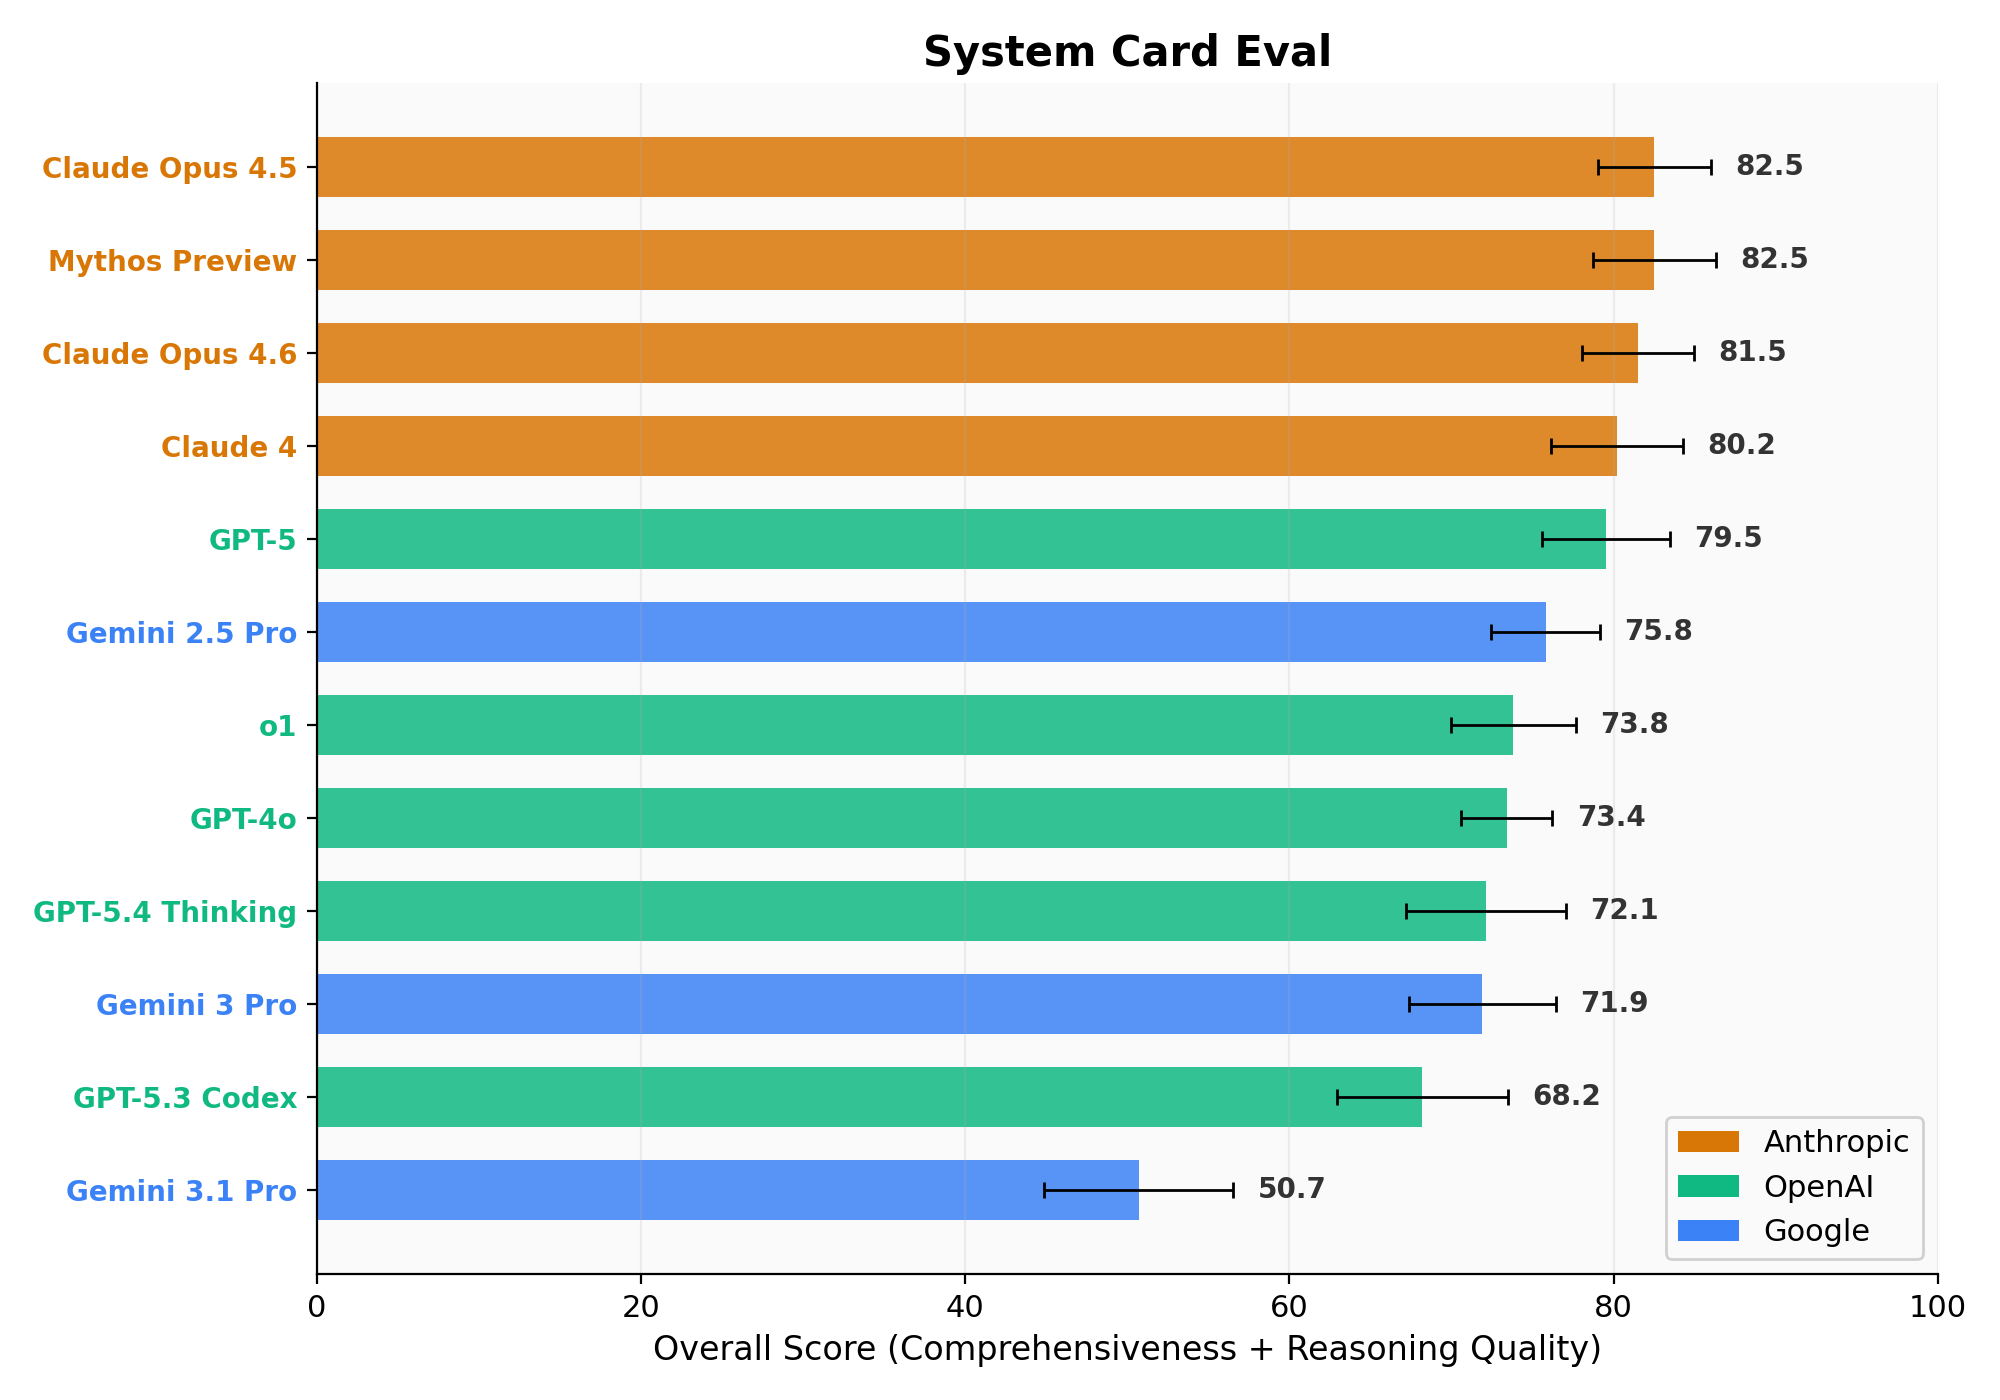
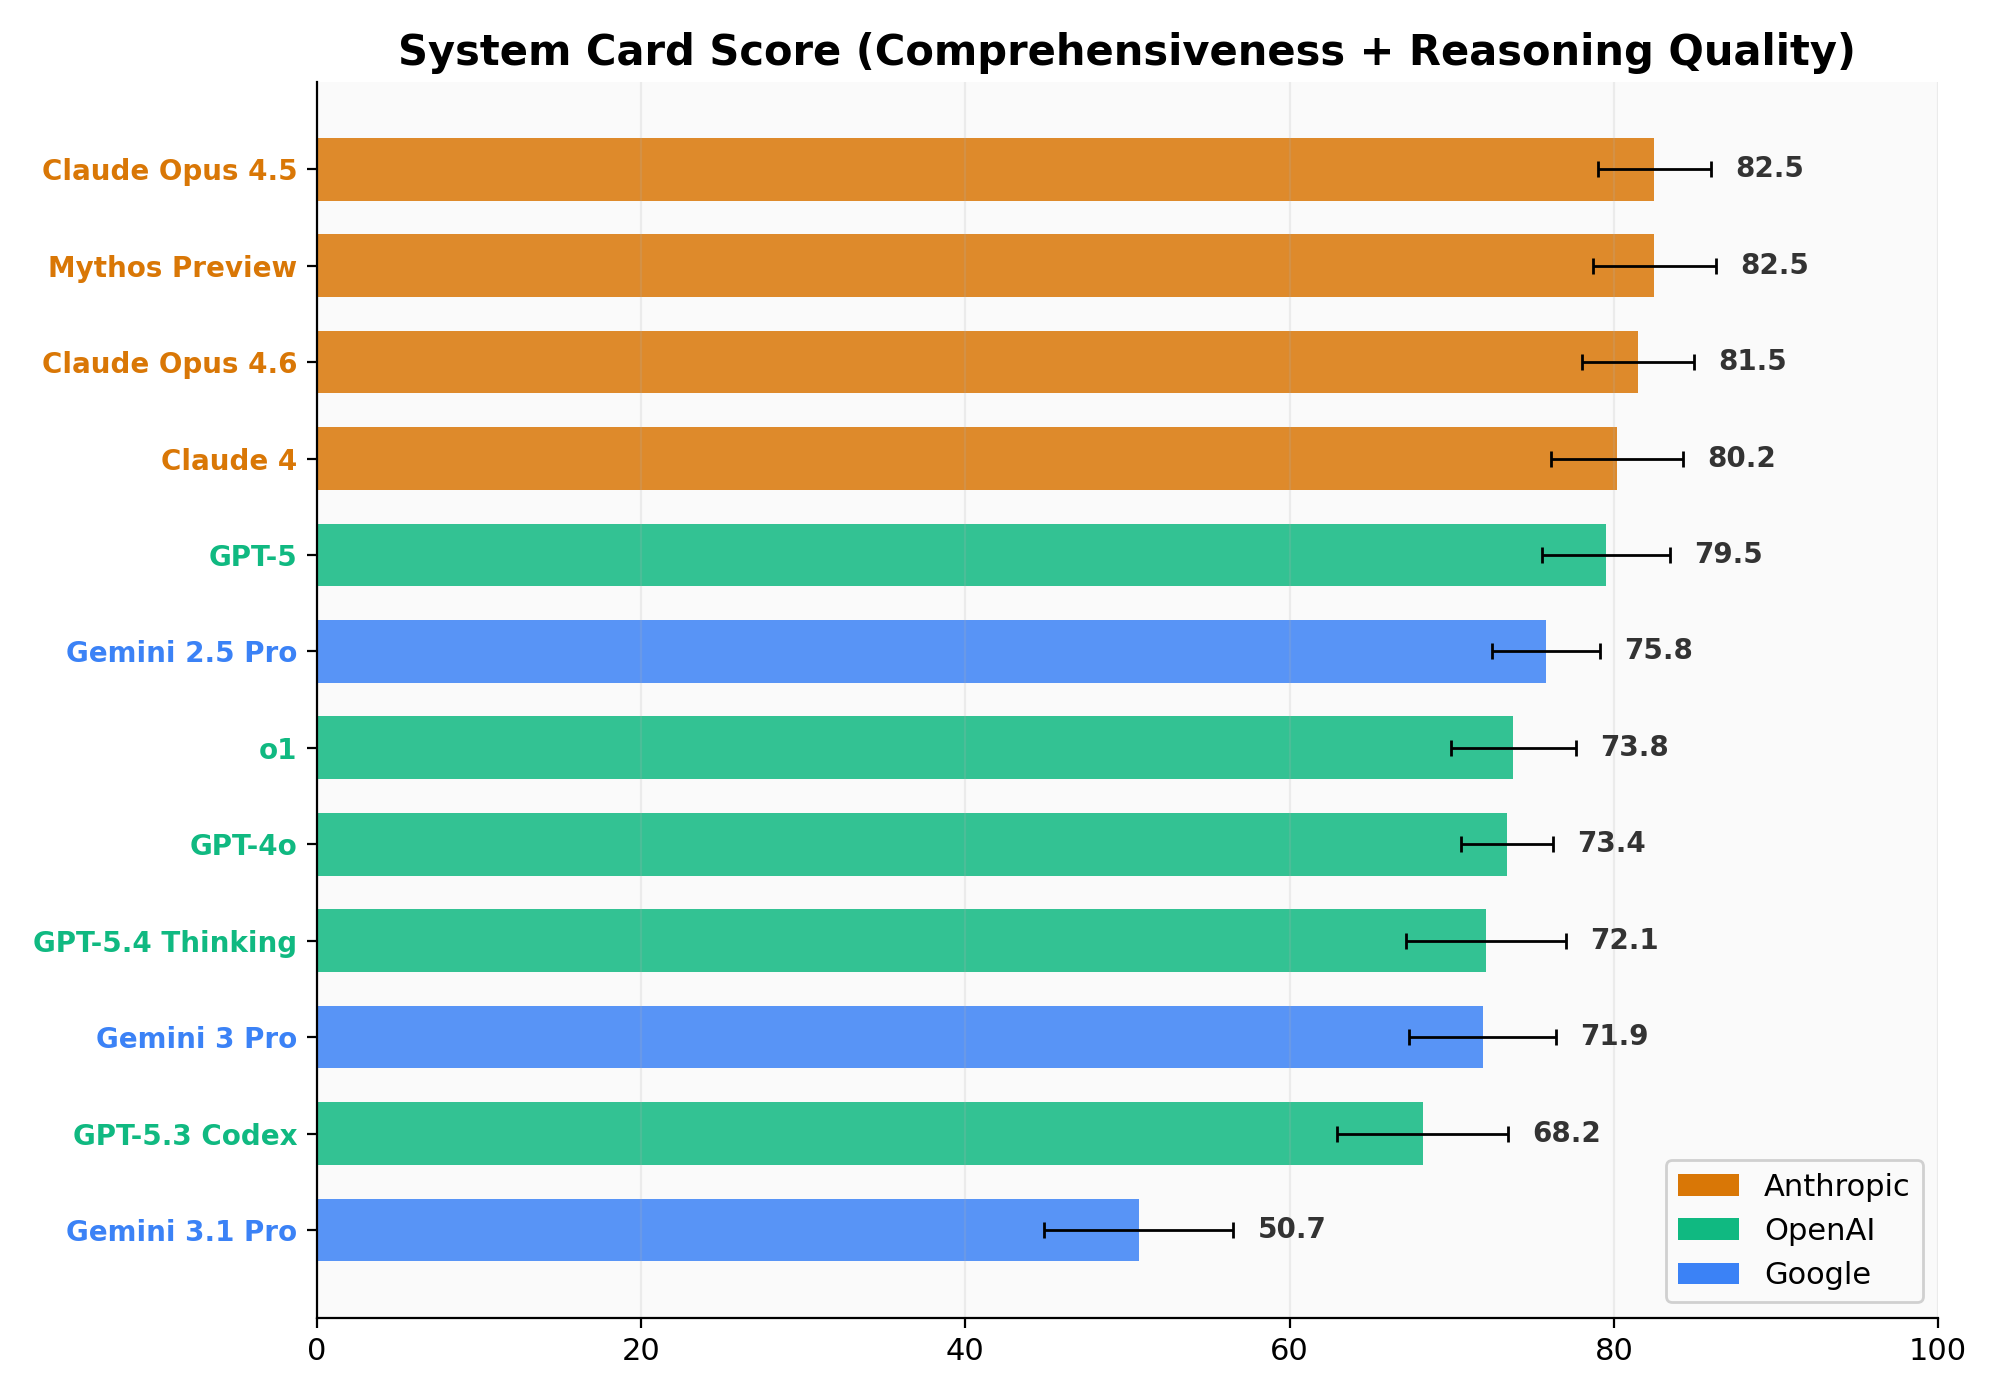
Clean up repo: remove stale plots, unused files, and dropped metrics
- Remove 20 old/superseded plot files
- Remove stakeholder_diversity prompt (metric dropped)
- Remove test_pdf_vision.py and main.py
- Add topic_coverage_per_model.png
- Update overall_ranking title and final_plots

diff --git a/scripts/final_plots.py b/scripts/final_plots.py
@@ -155,8 +155,8 @@ def plot_overall_ranking(scores):
         ax.get_yticklabels()[i].set_fontweight("bold")
 
     ax.set_xlim(0, 100)
-    ax.set_xlabel("Overall Score (Comprehensiveness + Reasoning Quality)")
-    ax.set_title("System Card Eval", fontweight="bold")
+    ax.set_xlabel("")
+    ax.set_title("System Card Score (Comprehensiveness + Reasoning Quality)", fontweight="bold")
     ax.invert_yaxis()
     ax.grid(True, axis="x", alpha=0.2)
 

diff --git a/REPORT.md b/REPORT.md
@@ -118,9 +118,11 @@ Despite growing public attention to AI safety documentation, system card quality
 
 ### 3.2 Topic coverage varies dramatically by company
 
-![Topic Coverage](results/topic_coverage.png)
+![Topic Coverage by Company](results/topic_coverage.png)
 
-Across 16 safety-relevant topics derived from the cards themselves:
+![Topic Coverage by Model](results/topic_coverage_per_model.png)
+
+Across 16 topics derived from the cards themselves:
 
 **Anthropic (92% average)**: Covers 100% on 12 of 16 topics. The only company that consistently addresses model welfare & moral status, reward hacking evaluations, and chain-of-thought reasoning transparency. Weakest on environmental impact (44%) and intended use/limitations (65%).
 
